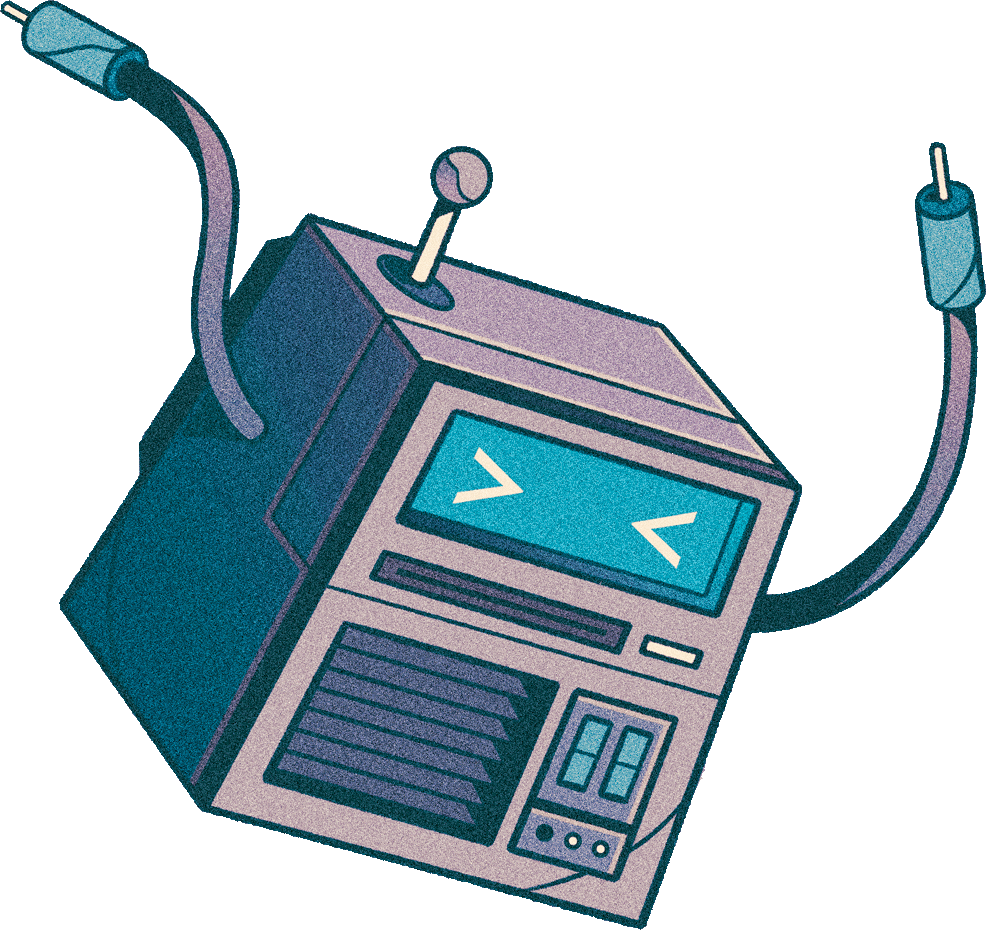
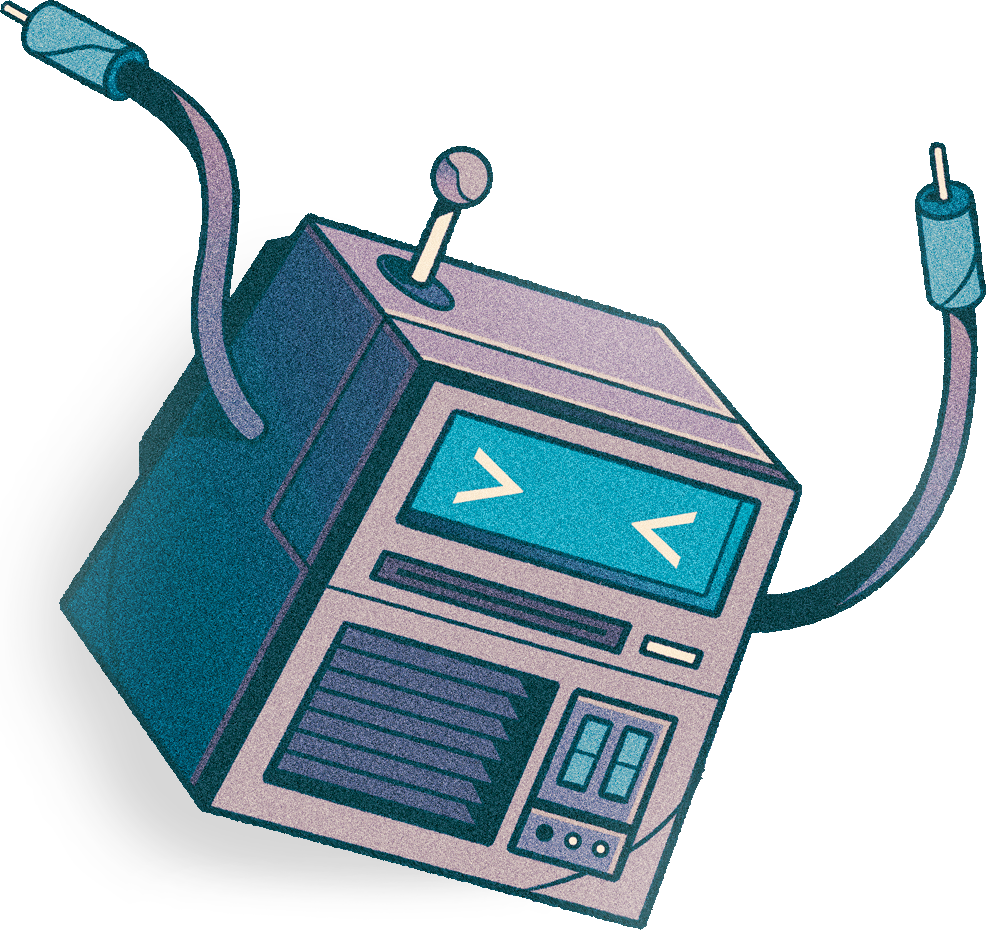
Switch intro image in dark mode

diff --git a/src/routes/+page.svelte b/src/routes/+page.svelte
@@ -15,6 +15,7 @@
 		skipFollow
 	} from '$lib/store';
 	import { getContext } from 'svelte';
+	import { theme } from '$lib/store';
 
 	const isModal = getContext('isModal');
 
@@ -101,7 +102,6 @@
 	<meta property="og:image" content="{baseUrl}/images/relay.png" />
 </svelte:head>
 
-
 <div class="dark:bg-neutral-800">
 	<div
 		class="gradient max-h-max bg-white"
@@ -117,7 +117,7 @@
 						>
 							{#if !isModal}
 								<img
-									src="/images/relay.png"
+									src={`/images/${$theme === 'dark' ? 'dark-relay' : 'relay'}.png`}
 									class="z-0 mb-8 w-60 sm:absolute sm:-right-[20px] sm:top-[15%] sm:w-full sm:object-left"
 									alt="Nostr Client"
 								/>
